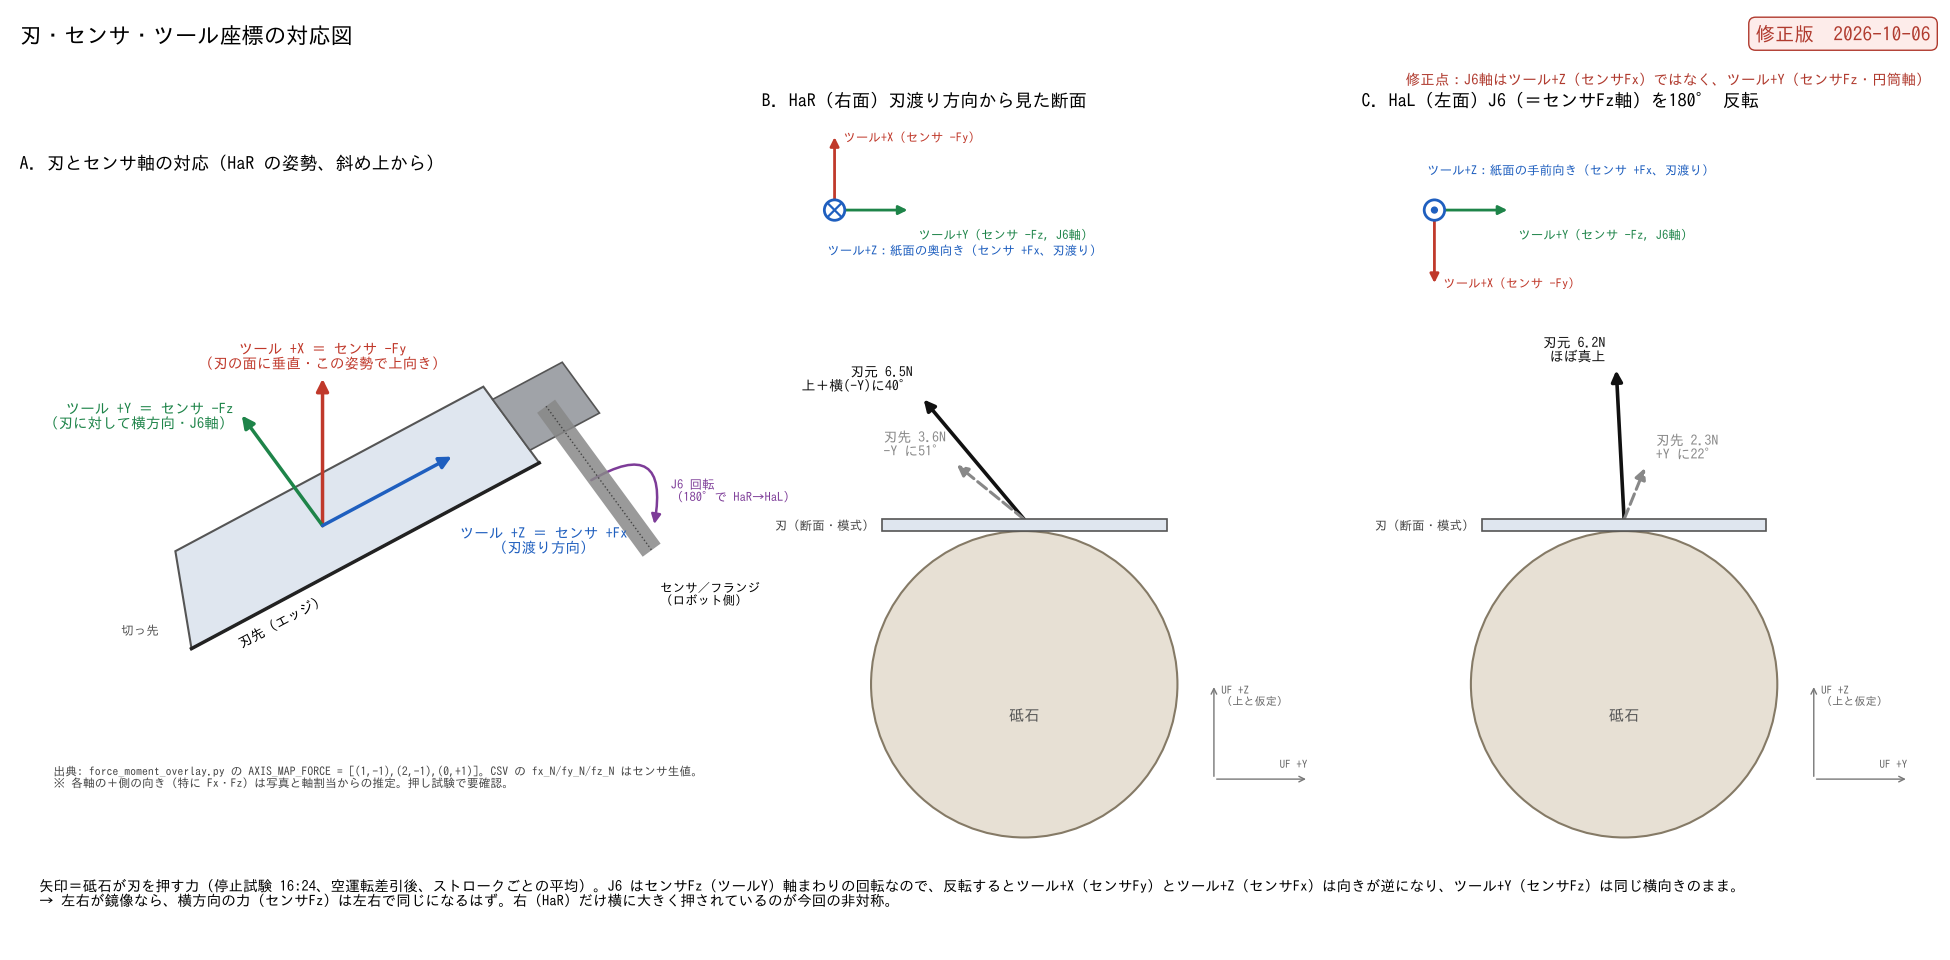
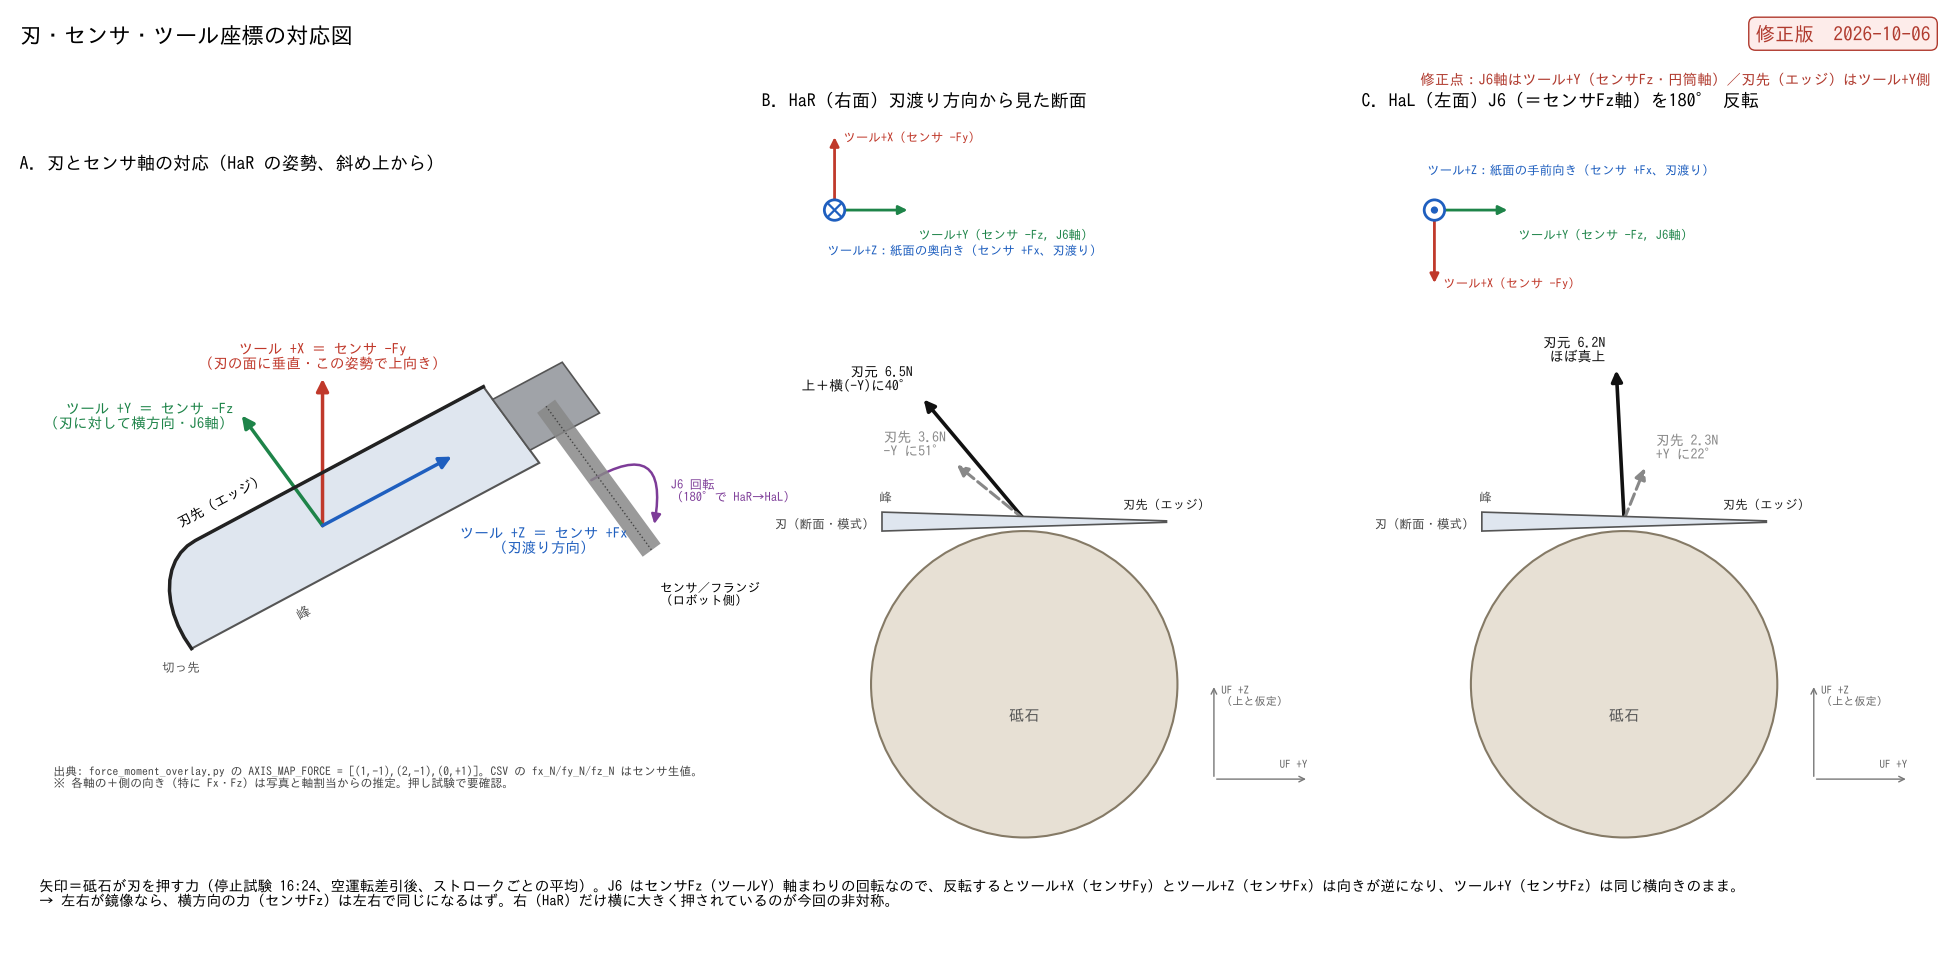
座標軸対応図：刃先（エッジ）をツール+Y側に修正
斜視図の刃先を峰の反対側（ツール+Y側）に移し、断面図の刃を
峰が厚く刃先が薄いくさび形で描くようにした。

Claude-Session: https://claude.ai/code/session_011143pXAzZx58nogTggRZAT

diff --git a/docs/figures/make_axis_mapping_fig.py b/docs/figures/make_axis_mapping_fig.py
@@ -40,14 +40,20 @@ def panel_a(ax):
     eZ = np.array([0.88, 0.47])          # 刃渡り方向
     P = lambda x, y, z: x * eX + y * eY + z * eZ
 
-    # 刃（Z: -4.6..2.4 = 切っ先..アゴ、Y: -0.9..0.9 = 刃先..峰）
-    blade = [P(0, -0.9, -4.6), P(0, -0.9, 2.4), P(0, 0.9, 2.4), P(0, 0.9, -3.8)]
+    # 刃（Z: -4.6..2.4 = 切っ先..アゴ、Y: +0.9 = 刃先（エッジ）、-0.9 = 峰）
+    # 峰は直線、刃先は切っ先に向かって峰側へ反り上がる
+    th = np.linspace(0, np.pi / 2, 12)
+    curve = [P(0, -0.9 + 1.8 * np.cos(t), -3.4 - 1.2 * np.sin(t)) for t in th]
+    edge = [P(0, 0.9, 2.4)] + curve
+    blade = [P(0, -0.9, 2.4)] + edge
     ax.add_patch(Polygon(blade, closed=True, fc=BLADE, ec='#555', lw=1.5))
-    ax.plot(*np.array([P(0, -0.9, -4.6), P(0, -0.9, 2.4)]).T, color='#222', lw=2.5)
-    m = P(0, -1.25, -3.0)
-    ax.text(*m, '刃先（エッジ）', rotation=np.degrees(np.arctan2(eZ[1], eZ[0])),
+    ax.plot(*np.array(edge).T, color='#222', lw=2.5)
+    rot = np.degrees(np.arctan2(eZ[1], eZ[0]))
+    ax.text(*P(0, 1.35, -2.6), '刃先（エッジ）', rotation=rot,
             ha='center', va='center', fontsize=10)
-    ax.text(*P(0, -0.2, -5.2), '切っ先', ha='center', fontsize=9, color='#555')
+    ax.text(*P(0, -1.3, -2.6), '峰', rotation=rot,
+            ha='center', va='center', fontsize=10, color='#555')
+    ax.text(*P(0, -1.2, -5.0), '切っ先', ha='center', fontsize=9, color='#555')
 
     # 柄・グリッパ（アゴ側）とセンサ円筒（J6軸 = センサFz方向 = ツール-Y）
     handle = [P(0, -0.6, 2.4), P(0, -0.6, 3.8), P(0, 0.6, 3.8), P(0, 0.6, 2.4)]
@@ -117,8 +123,12 @@ def section(ax, title, x_up, z_away, label_z, root, tip):
     ax.add_patch(Circle((0, -2.0), 2.1, fc=STONE, ec='#857a66', lw=1.5))
     ax.add_patch(Rectangle((-3.6, -4.4), 7.8, 0.2, fc='white', ec='none', zorder=3))
     ax.text(0, -2.5, '砥石', ha='center', fontsize=11, color='#555')
-    ax.add_patch(Rectangle((-1.95, 0.1), 3.9, 0.16, fc=BLADE, ec='#555', lw=1.2, zorder=4))
-    ax.text(-2.05, 0.18, '刃（断面・模式）', ha='right', va='center', fontsize=9, color='#444')
+    # 刃の断面：峰（-Y, 紙面左）が厚く、刃先（+Y, 紙面右）が薄い両刃のくさび形。J6反転でも+Y側のまま
+    ax.add_patch(Polygon([(-1.95, 0.1), (1.95, 0.22), (1.95, 0.24), (-1.95, 0.36)], closed=True,
+                         fc=BLADE, ec='#555', lw=1.2, zorder=4))
+    ax.text(-1.9, 0.5, '峰', fontsize=9, color='#555', ha='center')
+    ax.text(1.95, 0.38, '刃先（エッジ）', fontsize=9, color='#222', ha='center', va='bottom')
+    ax.text(-2.05, 0.2, '刃（断面・模式）', ha='right', va='center', fontsize=9, color='#444')
     # UF 方向
     ax.annotate('', xy=(2.6, -2.0), xytext=(2.6, -3.3),
                 arrowprops=dict(arrowstyle='->', color='#777'))
@@ -156,7 +166,7 @@ def main():
     fig.text(0.99, 0.975, '修正版  %s' % REV_DATE, fontsize=14, fontweight='bold',
              color='#b03a2e', ha='right', va='top',
              bbox=dict(boxstyle='round,pad=0.35', fc='#fdecea', ec='#b03a2e'))
-    fig.text(0.99, 0.925, '修正点：J6軸はツール+Z（センサFx）ではなく、ツール+Y（センサFz・円筒軸）',
+    fig.text(0.99, 0.925, '修正点：J6軸はツール+Y（センサFz・円筒軸）／刃先（エッジ）はツール+Y側',
              fontsize=10.5, color='#b03a2e', ha='right', va='top')
 
     fig.text(0.02, 0.085,
